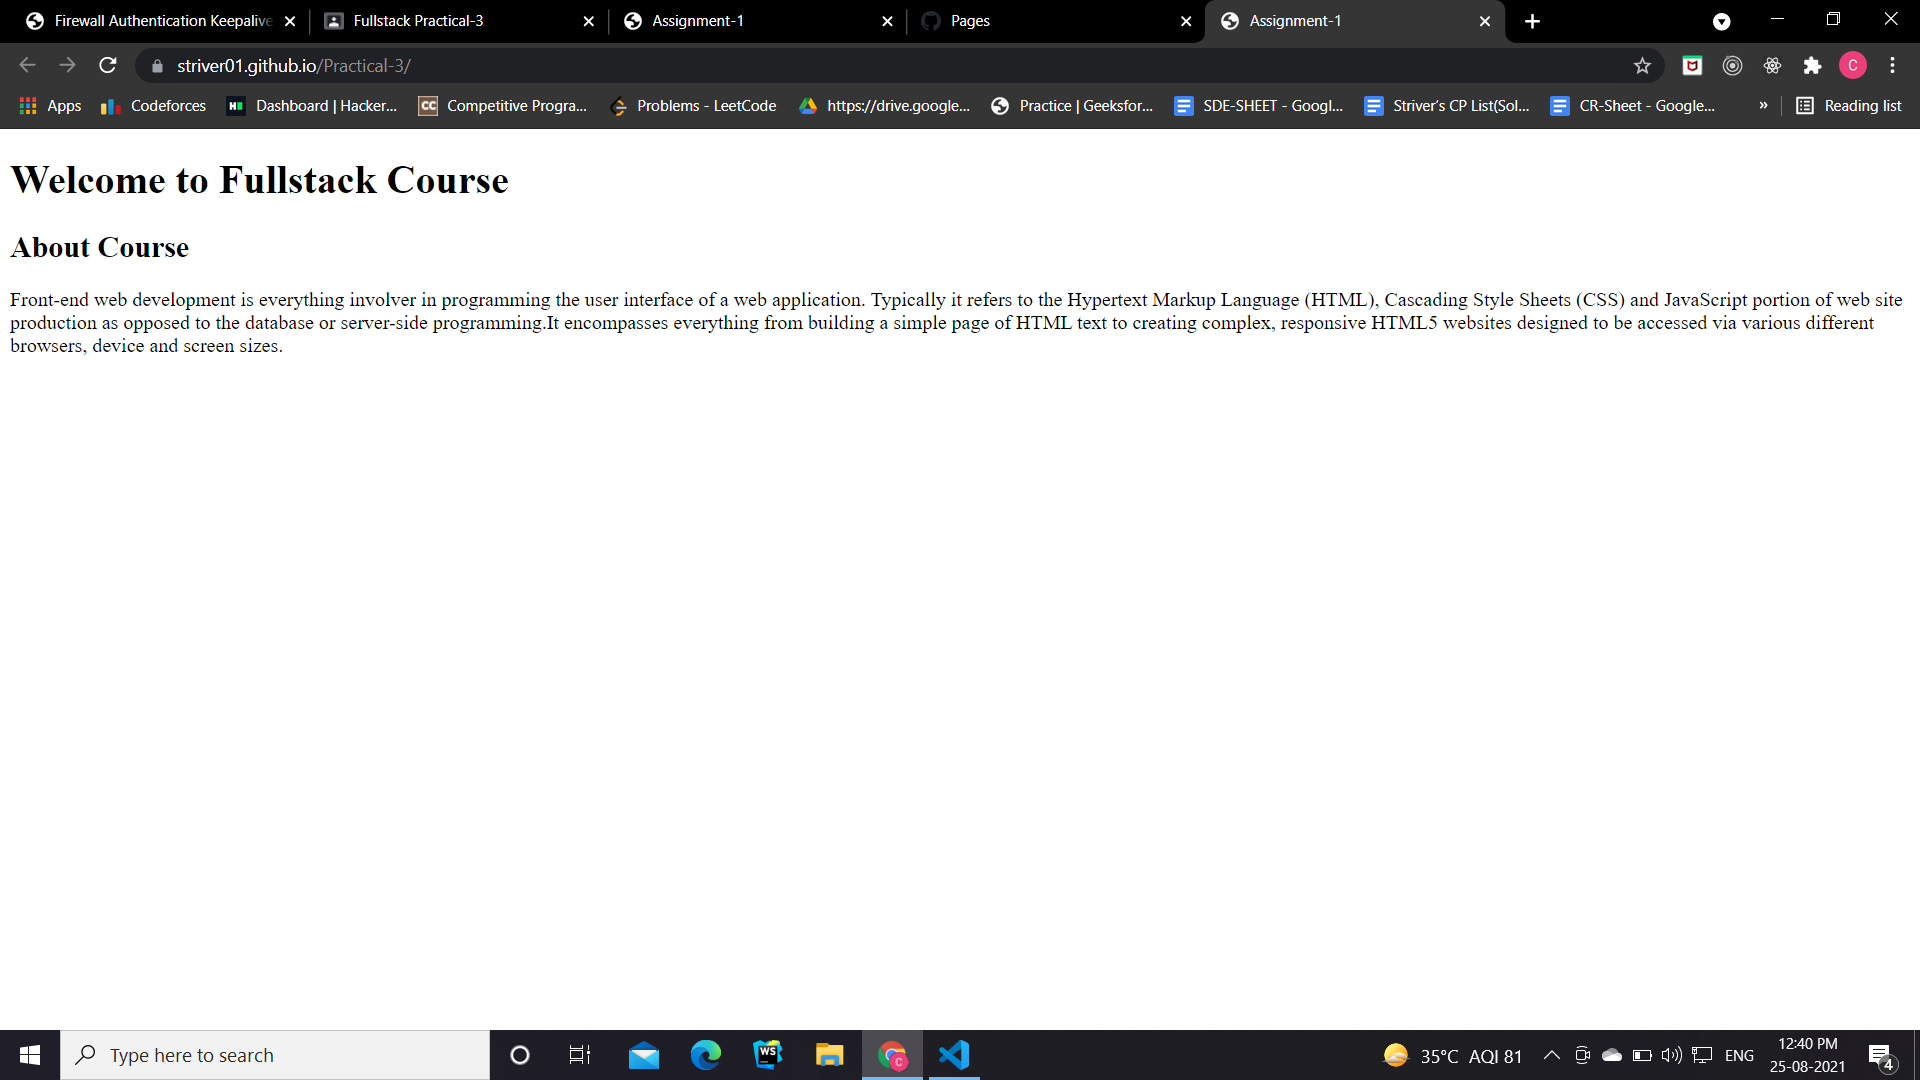
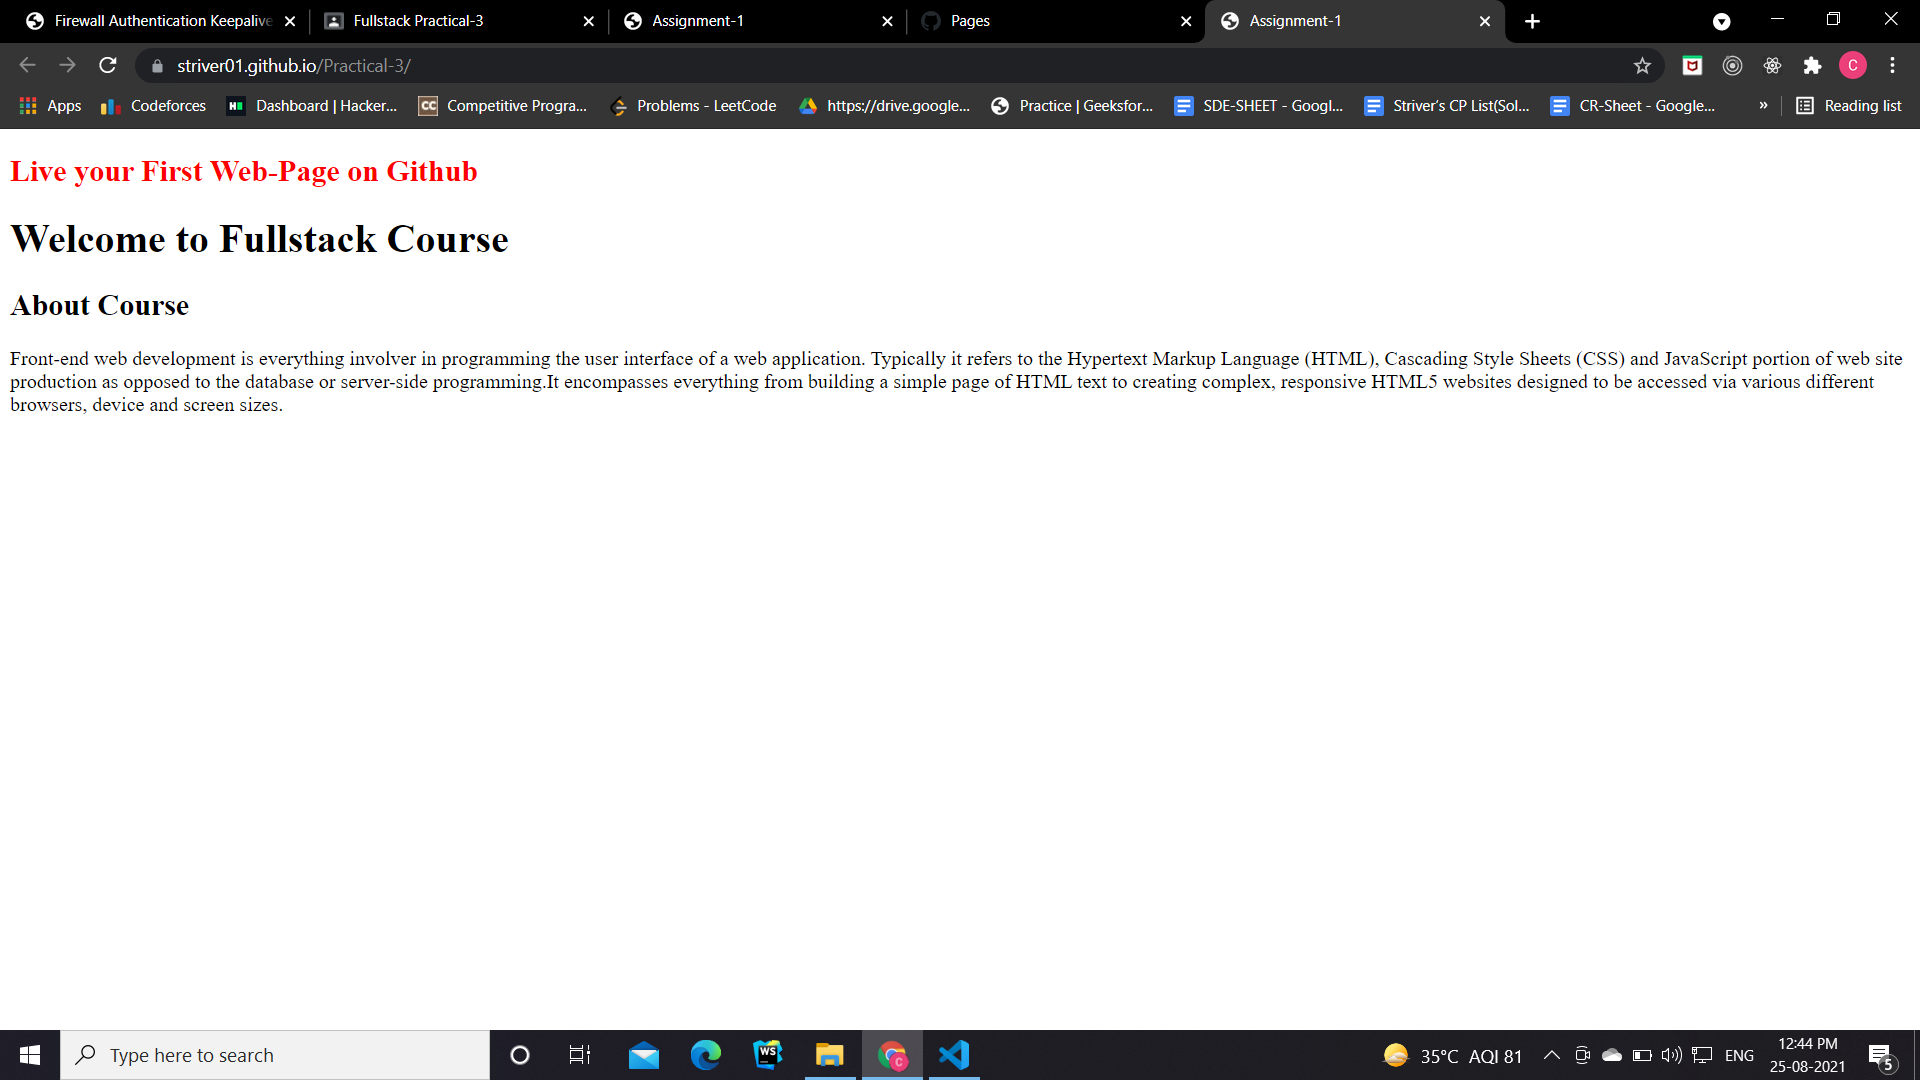
final commit

Changed region(s): [[0.0, 0.275, 1.0, 0.3972], [0.0, 0.2139, 0.2812, 0.2444], [0.0, 0.1528, 0.2812, 0.1833]]

diff --git a/index.html b/index.html
@@ -19,10 +19,10 @@
       text to creating complex, responsive HTML5 websites designed to be
       accessed via various different browsers, device and screen sizes.
     </p>
-    <!-- <h2>Output</h2>
+    <h2>Output</h2>
     <h3 style="text-align: center">Live Page on Github</h3>
     <img style="width: 100%" src="Practical-3_A.png" alt="none" />
     <h3 style="text-align: center">Code on Online platform</h3>
-    <img style="width: 100%" src="Practical-3_B.png" alt="none" /> -->
+    <img style="width: 100%" src="Practical-3_B.png" alt="none" />
   </body>
 </html>
